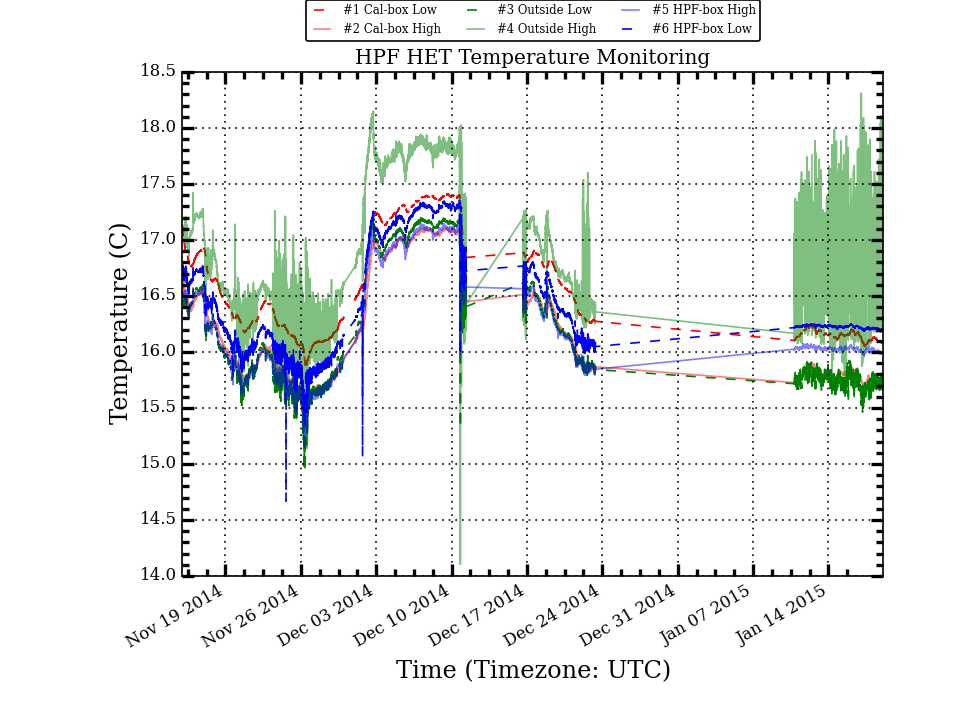
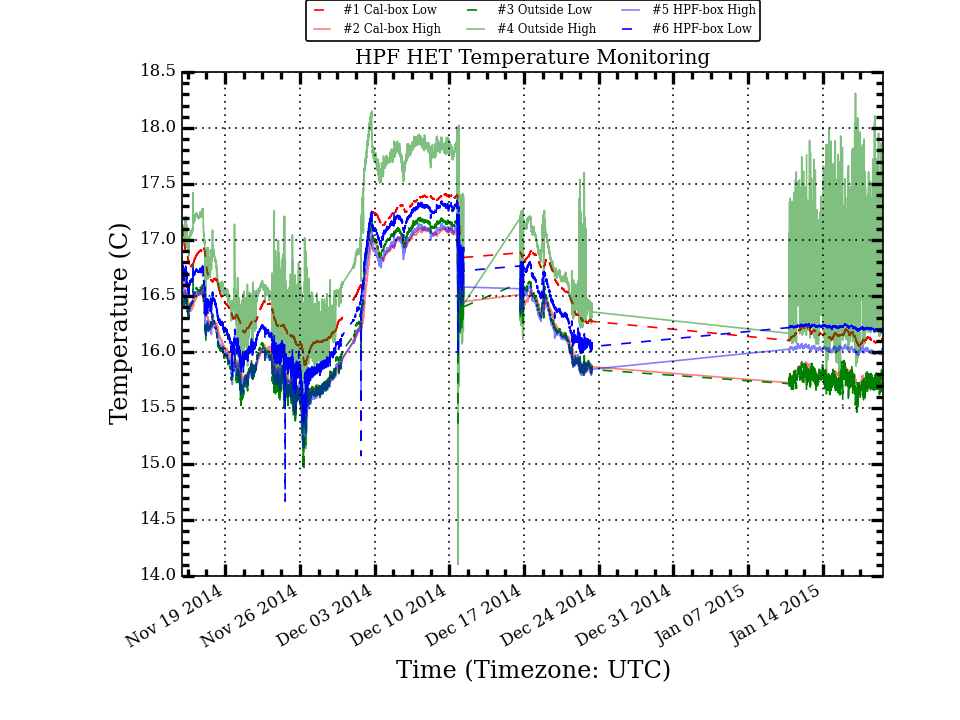
Update HPF Temp Plots

diff --git a/research/hpf_temps/plots/LakeShoreLogTotal_today_stats.html b/research/hpf_temps/plots/LakeShoreLogTotal_today_stats.html
@@ -10,56 +10,56 @@
  </TR>
  <TR>
   <TD>Cal_Low</TD>
-  <TD>16.111</TD>
-  <TD>0.014</TD>
-  <TD>16.111</TD>
-  <TD>16.134</TD>
-  <TD>16.085</TD>
-  <TD>0.049</TD>
+  <TD>16.100</TD>
+  <TD>0.010</TD>
+  <TD>16.097</TD>
+  <TD>16.133</TD>
+  <TD>16.086</TD>
+  <TD>0.047</TD>
  </TR>
  <TR>
   <TD>Cal_High</TD>
-  <TD>15.748</TD>
-  <TD>0.025</TD>
-  <TD>15.749</TD>
-  <TD>15.794</TD>
-  <TD>15.703</TD>
+  <TD>15.743</TD>
+  <TD>0.022</TD>
+  <TD>15.736</TD>
+  <TD>15.803</TD>
+  <TD>15.712</TD>
   <TD>0.091</TD>
  </TR>
  <TR>
   <TD>Out_Low</TD>
-  <TD>15.728</TD>
-  <TD>0.035</TD>
-  <TD>15.721</TD>
-  <TD>15.822</TD>
-  <TD>15.651</TD>
-  <TD>0.171</TD>
+  <TD>15.743</TD>
+  <TD>0.047</TD>
+  <TD>15.744</TD>
+  <TD>15.842</TD>
+  <TD>15.620</TD>
+  <TD>0.222</TD>
  </TR>
  <TR>
   <TD>Out_High</TD>
-  <TD>16.581</TD>
-  <TD>0.362</TD>
-  <TD>16.428</TD>
-  <TD>18.108</TD>
-  <TD>16.173</TD>
-  <TD>1.935</TD>
+  <TD>16.669</TD>
+  <TD>0.378</TD>
+  <TD>16.666</TD>
+  <TD>17.955</TD>
+  <TD>16.138</TD>
+  <TD>1.817</TD>
  </TR>
  <TR>
   <TD>HPF_High</TD>
-  <TD>16.007</TD>
-  <TD>0.014</TD>
-  <TD>16.006</TD>
-  <TD>16.040</TD>
-  <TD>15.979</TD>
-  <TD>0.061</TD>
+  <TD>16.002</TD>
+  <TD>0.012</TD>
+  <TD>15.998</TD>
+  <TD>16.033</TD>
+  <TD>15.973</TD>
+  <TD>0.060</TD>
  </TR>
  <TR>
   <TD>HPF_Low</TD>
-  <TD>16.205</TD>
-  <TD>0.007</TD>
-  <TD>16.206</TD>
-  <TD>16.221</TD>
-  <TD>16.181</TD>
-  <TD>0.040</TD>
+  <TD>16.202</TD>
+  <TD>0.006</TD>
+  <TD>16.201</TD>
+  <TD>16.218</TD>
+  <TD>16.176</TD>
+  <TD>0.042</TD>
  </TR>
 </TABLE>

diff --git a/research/hpf_temps/plots/LakeShoreLogTotal_week_stats.html b/research/hpf_temps/plots/LakeShoreLogTotal_week_stats.html
@@ -10,56 +10,56 @@
  </TR>
  <TR>
   <TD>Cal_Low</TD>
-  <TD>16.138</TD>
+  <TD>16.135</TD>
   <TD>0.035</TD>
-  <TD>16.147</TD>
+  <TD>16.142</TD>
   <TD>16.202</TD>
   <TD>16.051</TD>
   <TD>0.151</TD>
  </TR>
  <TR>
   <TD>Cal_High</TD>
-  <TD>15.782</TD>
+  <TD>15.779</TD>
   <TD>0.040</TD>
-  <TD>15.787</TD>
+  <TD>15.782</TD>
   <TD>15.874</TD>
   <TD>15.674</TD>
   <TD>0.200</TD>
  </TR>
  <TR>
   <TD>Out_Low</TD>
-  <TD>15.736</TD>
-  <TD>0.064</TD>
-  <TD>15.736</TD>
+  <TD>15.737</TD>
+  <TD>0.063</TD>
+  <TD>15.737</TD>
   <TD>15.947</TD>
   <TD>15.463</TD>
   <TD>0.484</TD>
  </TR>
  <TR>
   <TD>Out_High</TD>
-  <TD>16.659</TD>
+  <TD>16.662</TD>
   <TD>0.381</TD>
-  <TD>16.666</TD>
+  <TD>16.669</TD>
   <TD>18.311</TD>
   <TD>15.776</TD>
   <TD>2.535</TD>
  </TR>
  <TR>
   <TD>HPF_High</TD>
-  <TD>16.022</TD>
+  <TD>16.020</TD>
   <TD>0.017</TD>
-  <TD>16.025</TD>
+  <TD>16.024</TD>
   <TD>16.067</TD>
   <TD>15.970</TD>
   <TD>0.097</TD>
  </TR>
  <TR>
   <TD>HPF_Low</TD>
-  <TD>16.221</TD>
-  <TD>0.013</TD>
-  <TD>16.224</TD>
+  <TD>16.220</TD>
+  <TD>0.014</TD>
+  <TD>16.222</TD>
   <TD>16.250</TD>
-  <TD>16.181</TD>
-  <TD>0.069</TD>
+  <TD>16.176</TD>
+  <TD>0.074</TD>
  </TR>
 </TABLE>

diff --git a/research/hpf_temps/plots/LakeShoreLogTotal_stats.html b/research/hpf_temps/plots/LakeShoreLogTotal_stats.html
@@ -10,54 +10,54 @@
  </TR>
  <TR>
   <TD>Cal_Low</TD>
-  <TD>16.574</TD>
+  <TD>16.567</TD>
   <TD>0.457</TD>
-  <TD>16.426</TD>
+  <TD>16.413</TD>
   <TD>17.410</TD>
   <TD>15.840</TD>
   <TD>1.570</TD>
  </TR>
  <TR>
   <TD>Cal_High</TD>
-  <TD>16.207</TD>
-  <TD>0.488</TD>
-  <TD>16.018</TD>
+  <TD>16.201</TD>
+  <TD>0.487</TD>
+  <TD>16.004</TD>
   <TD>17.114</TD>
   <TD>15.410</TD>
   <TD>1.704</TD>
  </TR>
  <TR>
   <TD>Out_Low</TD>
-  <TD>16.200</TD>
-  <TD>0.539</TD>
-  <TD>15.978</TD>
+  <TD>16.194</TD>
+  <TD>0.538</TD>
+  <TD>15.970</TD>
   <TD>17.201</TD>
   <TD>14.942</TD>
   <TD>2.259</TD>
  </TR>
  <TR>
   <TD>Out_High</TD>
-  <TD>16.863</TD>
-  <TD>0.595</TD>
-  <TD>16.745</TD>
+  <TD>16.861</TD>
+  <TD>0.593</TD>
+  <TD>16.744</TD>
   <TD>18.311</TD>
   <TD>14.104</TD>
   <TD>4.207</TD>
  </TR>
  <TR>
   <TD>HPF_High</TD>
-  <TD>16.240</TD>
-  <TD>0.474</TD>
-  <TD>16.043</TD>
+  <TD>16.236</TD>
+  <TD>0.472</TD>
+  <TD>16.041</TD>
   <TD>17.147</TD>
   <TD>15.149</TD>
   <TD>1.998</TD>
  </TR>
  <TR>
   <TD>HPF_Low</TD>
-  <TD>16.441</TD>
-  <TD>0.471</TD>
-  <TD>16.237</TD>
+  <TD>16.437</TD>
+  <TD>0.468</TD>
+  <TD>16.235</TD>
   <TD>17.356</TD>
   <TD>14.668</TD>
   <TD>2.688</TD>
